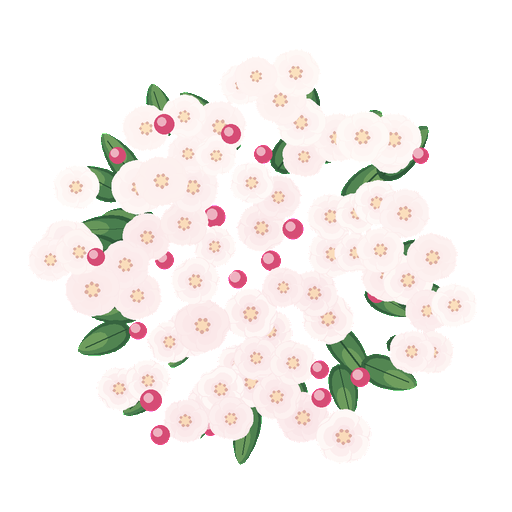
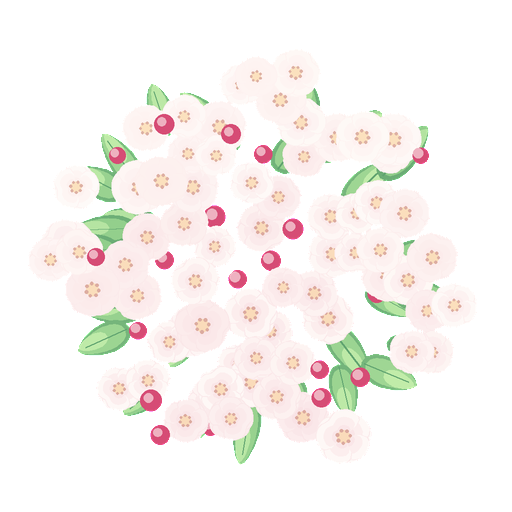
Explore: blossom clumps on fresh mint leaves; lighter apple and crab hearts
Claude-Session: https://claude.ai/code/session_012kUbpQBysxLxE8boLf2ucW

diff --git a/tools/court/explore/gen_candy_puff.py b/tools/court/explore/gen_candy_puff.py
@@ -77,6 +77,20 @@ def finish(cv):
     return Image.fromarray(img.astype(np.uint8), "RGBA"), float(m.mean())
 
 
+# the leaves under the blossom: the estate's fresh mint (the court's deeper
+# greens speckle a white crown dark from a distance)
+LEAF_SHADE, LEAF_MID, LEAF_LIGHT = (0.38, 0.64, 0.44), (0.56, 0.8, 0.54), (0.78, 0.94, 0.68)
+
+
+def soft_leaf(cv, at, ang, length, width, rng):
+    tone = rng.uniform(-0.15, 0.15)
+    out = B.leaf_outline("aspen", length, width, rng)
+    cv.poly(B.place(out, at, ang), B.rgb(B.mix(LEAF_SHADE, LEAF_MID, 0.4 + tone)))
+    cv.poly(B.place([(x * 0.92 + length * 0.08, y * 0.78) for x, y in out], at, ang), B.rgb(B.mix(LEAF_MID, LEAF_LIGHT, 0.2 + tone)))
+    cv.poly(B.place([(x * 0.55 + length * 0.42, y * 0.5 + width * 0.06) for x, y in out], at, ang), B.rgb(B.mix(LEAF_MID, LEAF_LIGHT, 0.8 + tone)))
+    cv.line(B.place([(length * 0.05, 0), (length * 0.85, 0)], at, ang), max(1.0, width * 0.05), B.rgb(LEAF_SHADE))
+
+
 def blossom_clump(cv, rng, kind):
     """Blossoms over a few leaves: the shaded heart first, the sunlit rim last."""
     cols, n, leaves, buds, bud_col = BLOSSOMS[kind]
@@ -85,7 +99,7 @@ def blossom_clump(cv, rng, kind):
         a = k * 2.39996 + rng.uniform(-0.3, 0.3)
         r = rad * (0.45 + 0.6 * math.sqrt((k + 0.5) / leaves))
         at = (cx + r * 0.72 * math.cos(a), cy + r * 0.72 * math.sin(a))
-        B.leaf(cv, "aspen", at, a + rng.uniform(-0.5, 0.5), rng.uniform(52, 70), rng.uniform(26, 34), rng)
+        soft_leaf(cv, at, a + rng.uniform(-0.5, 0.5), rng.uniform(52, 70), rng.uniform(26, 34), rng)
     spots = []
     for k in range(n):
         r = rad * math.sqrt((k + 0.5) / n) * rng.uniform(0.92, 1.06)
